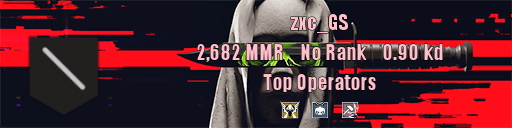
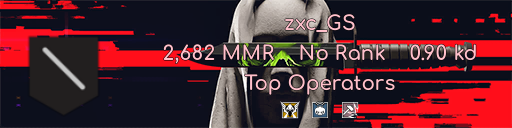
+permanent links in config & frames folder

Changed region(s): [[0.3125, 0.3125, 0.9375, 0.5], [0.4688, 0.5625, 0.7812, 0.75], [0.5312, 0.0938, 0.7188, 0.2812]]

diff --git a/modules/statistics.js b/modules/statistics.js
@@ -8,7 +8,7 @@ const config = require('../config.json');
 const GIFEncoder = require('gif-encoder-2');
 const gifFrames = require('gif-frames');
 let global_client;
-// Canvas.registerFont('./source/fonts/Montserrat-Regular.ttf', { family: 'Montserrat_Regular' });
+Canvas.registerFont('./source/fonts/Comfortaa-Bold.ttf', { family: 'Comfortaa' });
 
 function GetStatistics(client)
 {
@@ -20,6 +20,10 @@ function GetStatistics(client)
             for (let i = 0; i < uplay_names.length; i++)
             {
                 GetProfiles(uplay_names[i], function(stats) {
+                    // TODO: Вроде как хочу перманент закинуть в конфиг, возможно это делать нужно не здесь
+                    config.guilds[0].players.find(person => person.uplay_name == uplay_names[i]).permanent_link = stats.permanent_link;
+                    fs.writeFileSync('./config.json', JSON.stringify(config, null, '\t'));
+                    // 
                     map.set(uplay_names[i], stats);
                     MakeCanvas(map.get(uplay_names[i]), async function(_name) {
                         // let file = await fs.readdirSync(`./source/bages/current`).filter(file => file.startsWith(uplay_names[i]))[0];
@@ -80,7 +84,12 @@ async function GetProfiles(uplay_name, callback)
             kd = kd.slice(kd.indexOf("\n") + 1, kd.indexOf("</div>") - 1);
             let ops = [];
             let pattern = /https:\/\/.*.png/g;
-            let links = temp.matchAll(pattern)
+            let links = temp.matchAll(pattern);
+            pattern = /https:\/\/.*"/g;
+            let permanent = $('#profile > div.trn-scont.trn-scont--swap > div.trn-scont__aside > div:nth-child(3)').html();
+            permanent = pattern.exec(permanent)[0];
+            permanent = permanent.slice(0, permanent.indexOf('"'));
+            console.log(permanent);
             for (let i of links)
                 ops.push(i[0]);
 
@@ -91,7 +100,8 @@ async function GetProfiles(uplay_name, callback)
                 mmr: mmr,
                 ops: ops,
                 avatar: avatar,
-                kd: kd
+                kd: kd,
+                permanent_link: permanent
             };
             return obj;
         }
@@ -136,7 +146,7 @@ async function MakeCanvas(map, callback)
             // Настройка текста
             // ctx.font = '20px';
             // ctx.font = '20px Courier';
-            ctx.font = '20px Impact';
+            ctx.font = '20px Comfortaa';
             ctx.fillStyle = config.guilds[0].players.find(p => p.uplay_name == map.name).bage.text_color || "black";
             // Обводка текста
             ctx.strokeStyle = config.guilds[0].players.find(p => p.uplay_name == map.name).bage.text_border || "transparent";
@@ -216,7 +226,7 @@ async function MakeAGif(map, callback)
     const second_op = await Canvas.loadImage(`./source/operators/${map.ops[1].slice(map.ops[1].lastIndexOf('/') + 1, map.ops[1].lastIndexOf('.'))}.png`);
     const third_op = await Canvas.loadImage(`./source/operators/${map.ops[2].slice(map.ops[2].lastIndexOf('/') + 1, map.ops[2].lastIndexOf('.'))}.png`);
     // ctx.font = '20px Comfortaa-Bold';
-    ctx.font = '20px Impact';
+    ctx.font = '20px Comfortaa';
     ctx.fillStyle = config.guilds[0].players.find(p => p.uplay_name == map.name).bage.text_color || "black";
 
     let sorted = [];

diff --git a/index.js b/index.js
@@ -13,8 +13,8 @@ client.on('ready', () => {
     console.log('Ready!');
     // console.log(client.commands)
 
-    /* statistics(client);
-    setInterval(() => {
+    statistics(client);
+    /* setInterval(() => {
         newsletter(client);
     }, 1000 * 5);
     setInterval(() => {
